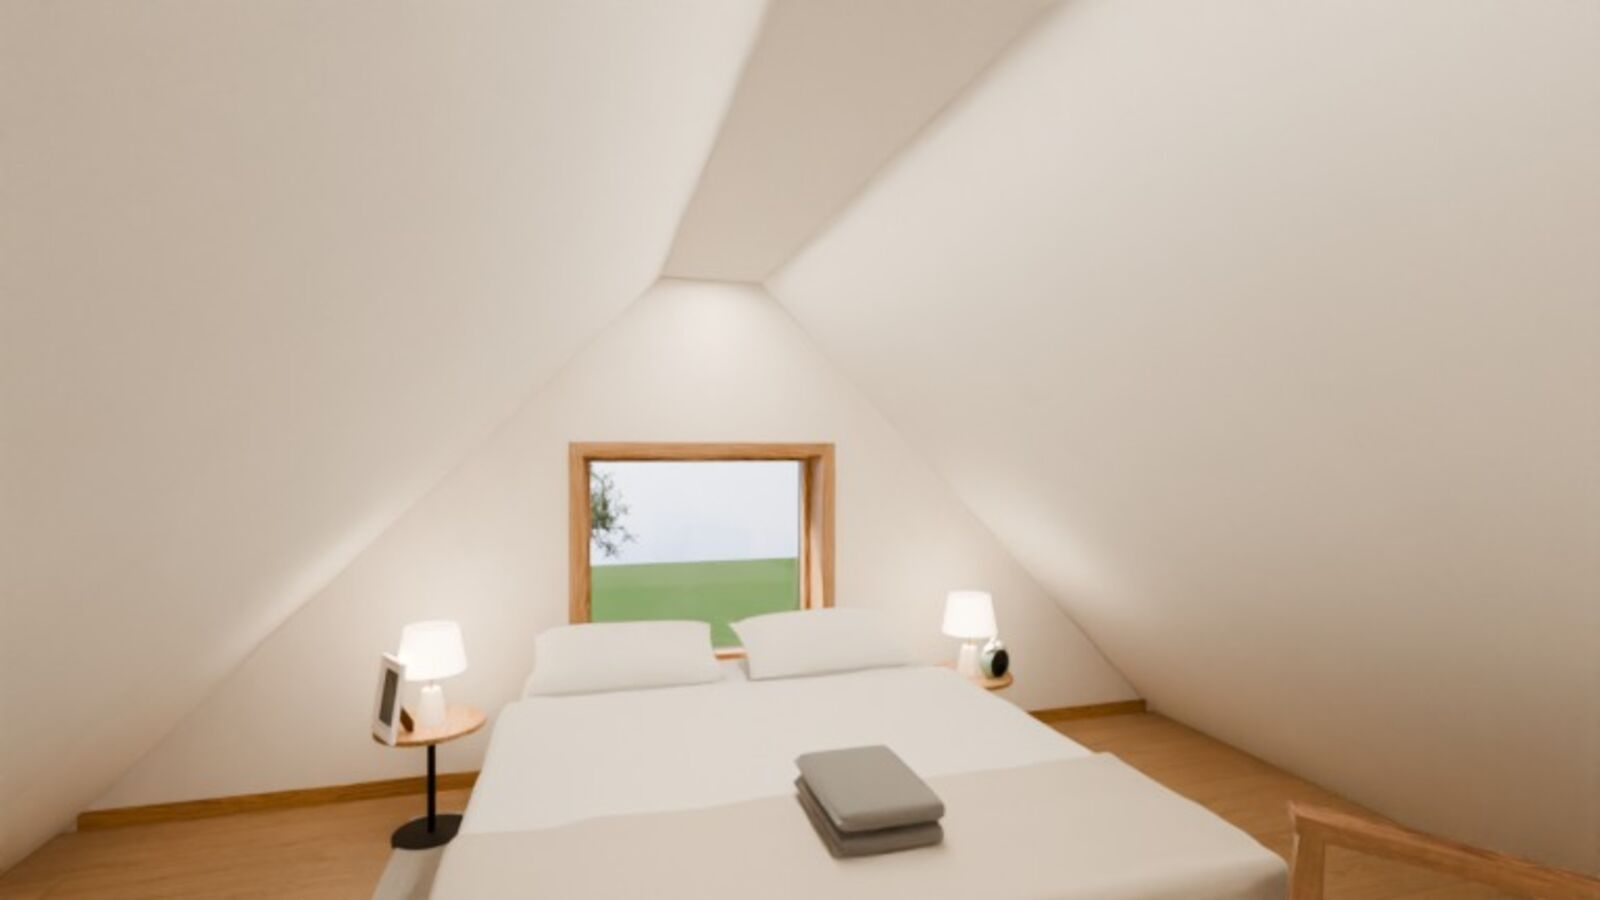
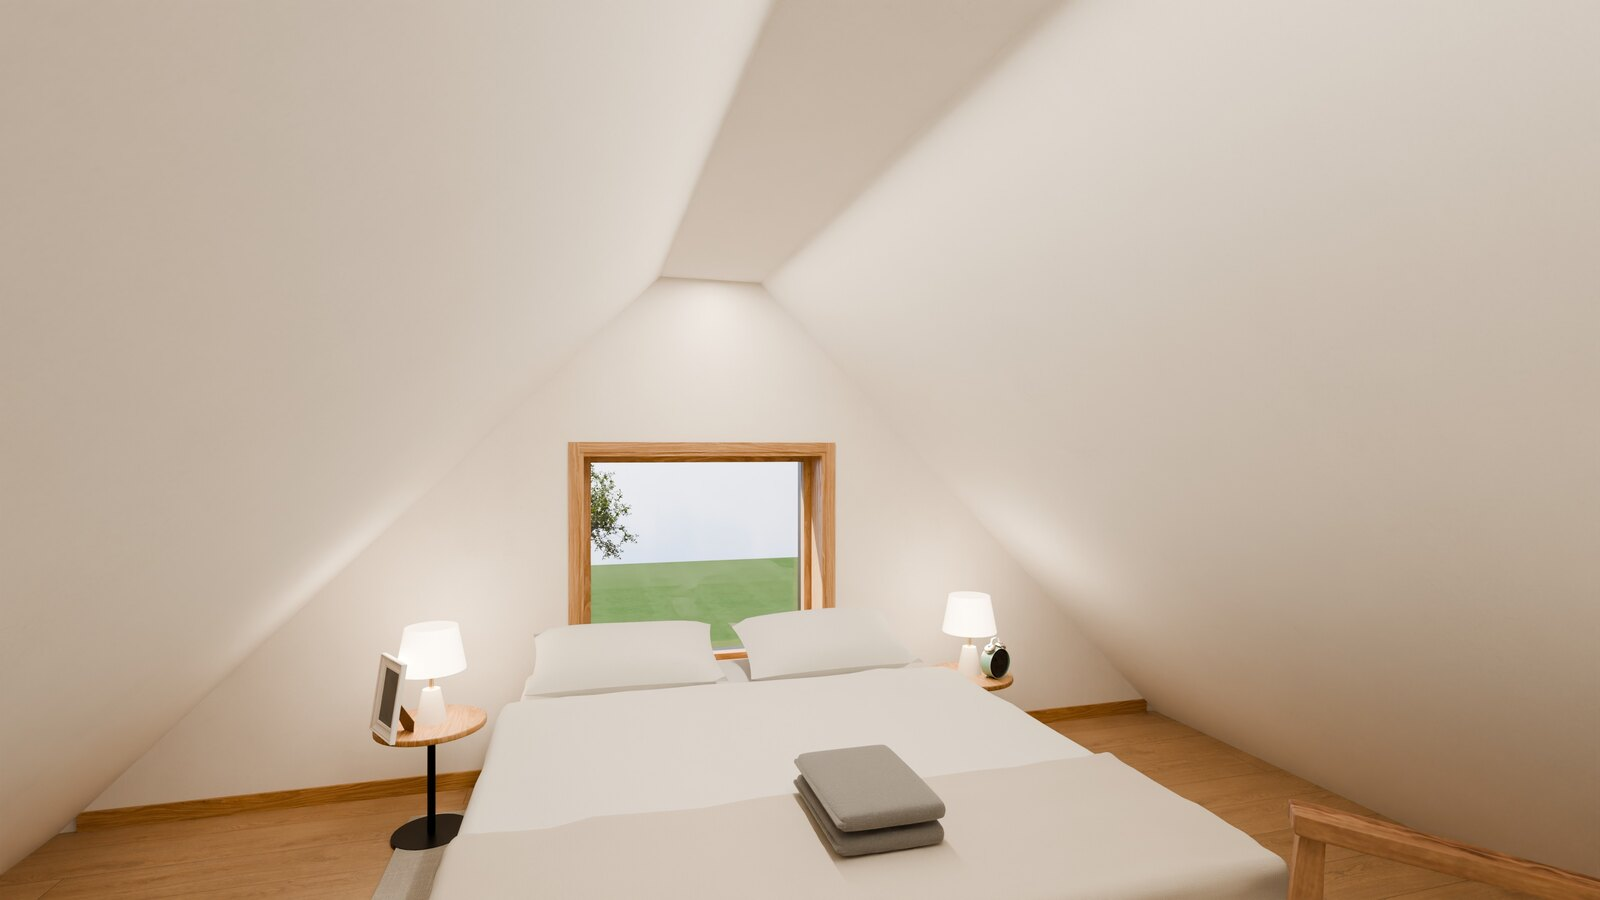
Boligannonse: 19 av 25 bilder i 4K

diff --git a/annonse/index.html b/annonse/index.html
@@ -103,7 +103,7 @@ img { max-width: 100%; }
 
 <div class="ark">
   <header class="topp">
-    <div class="merke"><strong>3D-visualisering av planlagt ombygging</strong><span>17 av 25 bilder er ferdige i 4K, resten er forhåndsvisninger</span></div>
+    <div class="merke"><strong>3D-visualisering av planlagt ombygging</strong><span>19 av 25 bilder er ferdige i 4K, resten er forhåndsvisninger</span></div>
     <h1>Enebolig med golfanneks og oppvarmet garasje</h1>
     <figure class="bilde hero"><button type="button" class="apne" data-i="0" aria-label="Åpne bildet: Fasaden mot nord med overbygd inngang"><img src="img/01-fasade.jpg" width="1600" height="900" alt="Fasaden mot nord med overbygd inngang"></button><figcaption>Fasaden mot nord med overbygd inngang</figcaption></figure>
     <p class="ingress">Et hus over tre plan med stue og kjøkken mot hagen, hovedsoverom med eget bad, tre barnerom og loft. I hagen står et anneks med golfsimulator. Trykk på et bilde for å se det i full oppløsning. På mobil fyller bildet hele skjermen når du snur den, og du blar ved å sveipe.</p>
@@ -114,8 +114,8 @@ img { max-width: 100%; }
 <section id="ute" class="del"><div class="delhode"><h2>Huset</h2><p>Brun stående kledning, sort ståltak og eik rundt alle åpninger. Overbygd inngang mot nord, dobbel garasje ved siden av.</p></div><div class="galleri"><figure class="bilde stor"><button type="button" class="apne" data-i="1" aria-label="Åpne bildet: Huset, garasjen og annekset sett fra nord"><img src="img/02-oversikt.jpg" width="1600" height="900" alt="Huset, garasjen og annekset sett fra nord" loading="lazy"></button><figcaption>Huset, garasjen og annekset sett fra nord</figcaption></figure></div></section>
 <section id="forste" class="del"><div class="delhode"><h2>Første etasje</h2><p>Stue, TV-stue, spisestue og kjøkken ligger på rekke mot hagen i sør. Tilbygget med kjøkken og spisestue ligger litt lavere enn stua og har 2,9 meter under taket.</p></div><div class="galleri"><figure class="bilde stor"><button type="button" class="apne" data-i="2" aria-label="Åpne bildet: Stua med karnapp mot hagen"><img src="img/04-stue.jpg" width="1600" height="900" alt="Stua med karnapp mot hagen" loading="lazy"></button><figcaption>Stua med karnapp mot hagen</figcaption></figure><figure class="bilde"><button type="button" class="apne" data-i="3" aria-label="Åpne bildet: Sofagruppa, med TV-stua bak glassveggen til venstre"><img src="img/05-stue-sofa.jpg" width="1600" height="900" alt="Sofagruppa, med TV-stua bak glassveggen til venstre" loading="lazy"></button><figcaption>Sofagruppa, med TV-stua bak glassveggen til venstre</figcaption></figure><figure class="bilde"><button type="button" class="apne" data-i="4" aria-label="Åpne bildet: Spisestue med rundt bord til åtte og skyvedører ut til terrassen"><img src="img/07-spisestue.jpg" width="1600" height="900" alt="Spisestue med rundt bord til åtte og skyvedører ut til terrassen" loading="lazy"></button><figcaption>Spisestue med rundt bord til åtte og skyvedører ut til terrassen</figcaption></figure><figure class="bilde"><button type="button" class="apne" data-i="5" aria-label="Åpne bildet: Kjøkken med mørk brune fronter og øy i Dekton"><img src="img/08-kjokken.jpg" width="1600" height="900" alt="Kjøkken med mørk brune fronter og øy i Dekton" loading="lazy"></button><figcaption>Kjøkken med mørk brune fronter og øy i Dekton</figcaption></figure><figure class="bilde"><button type="button" class="apne" data-i="6" aria-label="Åpne bildet: Kjøkkenøya har usynlig induksjon under steinplata"><img src="img/09-kjokken-oy.jpg" width="1600" height="900" alt="Kjøkkenøya har usynlig induksjon under steinplata" loading="lazy"></button><figcaption>Kjøkkenøya har usynlig induksjon under steinplata</figcaption></figure><figure class="bilde"><button type="button" class="apne" data-i="7" aria-label="Åpne bildet: TV-stua kan stenges av med glassfoldevegg"><img src="img/06-tvstue.jpg" width="1600" height="900" alt="TV-stua kan stenges av med glassfoldevegg" loading="lazy"></button><figcaption>TV-stua kan stenges av med glassfoldevegg</figcaption></figure><figure class="bilde"><button type="button" class="apne" data-i="8" aria-label="Åpne bildet: Entréen sett fra hoveddøra, med stua innerst"><img src="img/03-entre.jpg" width="1600" height="900" alt="Entréen sett fra hoveddøra, med stua innerst" loading="lazy"></button><figcaption>Entréen sett fra hoveddøra, med stua innerst</figcaption></figure></div></section>
 <section id="andre" class="del"><div class="delhode"><h2>Andre etasje</h2><p>Hovedsoverom med eget bad og walk-in, tre barnerom, barnebad, vaskerom og hjemmekontor.</p></div><div class="galleri"><figure class="bilde stor"><button type="button" class="apne" data-i="9" aria-label="Åpne bildet: Hovedsoverommet, med loftstrappa utenfor døra"><img src="img/10-hovedsoverom.jpg" width="1600" height="900" alt="Hovedsoverommet, med loftstrappa utenfor døra" loading="lazy"></button><figcaption>Hovedsoverommet, med loftstrappa utenfor døra</figcaption></figure><figure class="bilde"><button type="button" class="apne" data-i="10" aria-label="Åpne bildet: Bad til hovedsoverommet med dusj under skråtaket"><img src="img/11-masterbad.jpg" width="1600" height="900" alt="Bad til hovedsoverommet med dusj under skråtaket" loading="lazy"></button><figcaption>Bad til hovedsoverommet med dusj under skråtaket</figcaption></figure><figure class="bilde"><button type="button" class="apne" data-i="11" aria-label="Åpne bildet: Walk-in med plassbygd innredning i eik"><img src="img/12-walkin.jpg" width="1600" height="900" alt="Walk-in med plassbygd innredning i eik" loading="lazy"></button><figcaption>Walk-in med plassbygd innredning i eik</figcaption></figure><figure class="bilde"><button type="button" class="apne" data-i="12" aria-label="Åpne bildet: Barnerom med gulvhøyt vindu mot vest"><img src="img/13-barnerom2.jpg" width="1600" height="900" alt="Barnerom med gulvhøyt vindu mot vest" loading="lazy"></button><figcaption>Barnerom med gulvhøyt vindu mot vest</figcaption></figure><figure class="bilde"><button type="button" class="apne" data-i="13" aria-label="Åpne bildet: Barnerom med lenestol ved vinduet"><img src="img/14-barnerom3.jpg" width="1600" height="900" alt="Barnerom med lenestol ved vinduet" loading="lazy"></button><figcaption>Barnerom med lenestol ved vinduet</figcaption></figure><figure class="bilde"><button type="button" class="apne" data-i="14" aria-label="Åpne bildet: Barnerom med takvinduer mot sør"><img src="img/15-barnerom1.jpg" width="1600" height="900" alt="Barnerom med takvinduer mot sør" loading="lazy"></button><figcaption>Barnerom med takvinduer mot sør</figcaption></figure><figure class="bilde"><button type="button" class="apne" data-i="15" aria-label="Åpne bildet: Barnebad med dobbel servant og takvinduer"><img src="img/25-barnebad.jpg" width="1600" height="900" alt="Barnebad med dobbel servant og takvinduer" loading="lazy"><span class="lav">Lav kvalitet, 4K kommer</span></button><figcaption>Barnebad med dobbel servant og takvinduer</figcaption></figure><figure class="bilde"><button type="button" class="apne" data-i="16" aria-label="Åpne bildet: Hjemmekontor i nisjen ved trappa"><img src="img/16-kontor.jpg" width="1600" height="900" alt="Hjemmekontor i nisjen ved trappa" loading="lazy"></button><figcaption>Hjemmekontor i nisjen ved trappa</figcaption></figure></div></section>
-<section id="loft" class="del"><div class="delhode"><h2>Loftet</h2><p>Loftet har gjesterom i vest og et stort hobbyrom i øst, med tre takvinduer mot nord.</p></div><div class="galleri"><figure class="bilde stor"><button type="button" class="apne" data-i="17" aria-label="Åpne bildet: Hobbyrommet på loftet"><img src="img/17-loft.jpg" width="1600" height="900" alt="Hobbyrommet på loftet" loading="lazy"></button><figcaption>Hobbyrommet på loftet</figcaption></figure><figure class="bilde"><button type="button" class="apne" data-i="18" aria-label="Åpne bildet: Gjesterommet under mønet"><img src="img/18-loft-gjest.jpg" width="1600" height="900" alt="Gjesterommet under mønet" loading="lazy"><span class="lav">Lav kvalitet, 4K kommer</span></button><figcaption>Gjesterommet under mønet</figcaption></figure></div></section>
-<section id="hage" class="del"><div class="delhode"><h2>Terrasse og hage</h2><p>Terrassen ligger utenfor spisestua og fortsetter rundt hjørnet til kjøkkendøra. Hagen er skjermet av hekk.</p></div><div class="galleri"><figure class="bilde stor"><button type="button" class="apne" data-i="19" aria-label="Åpne bildet: Terrassen sett fra plenen"><img src="img/19-terrasse.jpg" width="1600" height="900" alt="Terrassen sett fra plenen" loading="lazy"><span class="lav">Lav kvalitet, 4K kommer</span></button><figcaption>Terrassen sett fra plenen</figcaption></figure><figure class="bilde"><button type="button" class="apne" data-i="20" aria-label="Åpne bildet: Sofagruppe på terrassen, annekset innerst i hagen"><img src="img/20-terrasse-ute.jpg" width="1600" height="900" alt="Sofagruppe på terrassen, annekset innerst i hagen" loading="lazy"><span class="lav">Lav kvalitet, 4K kommer</span></button><figcaption>Sofagruppe på terrassen, annekset innerst i hagen</figcaption></figure><figure class="bilde"><button type="button" class="apne" data-i="21" aria-label="Åpne bildet: Hellegang over plenen til annekset"><img src="img/21-hage-anneks.jpg" width="1600" height="900" alt="Hellegang over plenen til annekset" loading="lazy"><span class="lav">Lav kvalitet, 4K kommer</span></button><figcaption>Hellegang over plenen til annekset</figcaption></figure></div></section>
+<section id="loft" class="del"><div class="delhode"><h2>Loftet</h2><p>Loftet har gjesterom i vest og et stort hobbyrom i øst, med tre takvinduer mot nord.</p></div><div class="galleri"><figure class="bilde stor"><button type="button" class="apne" data-i="17" aria-label="Åpne bildet: Hobbyrommet på loftet"><img src="img/17-loft.jpg" width="1600" height="900" alt="Hobbyrommet på loftet" loading="lazy"></button><figcaption>Hobbyrommet på loftet</figcaption></figure><figure class="bilde"><button type="button" class="apne" data-i="18" aria-label="Åpne bildet: Gjesterommet under mønet"><img src="img/18-loft-gjest.jpg" width="1600" height="900" alt="Gjesterommet under mønet" loading="lazy"></button><figcaption>Gjesterommet under mønet</figcaption></figure></div></section>
+<section id="hage" class="del"><div class="delhode"><h2>Terrasse og hage</h2><p>Terrassen ligger utenfor spisestua og fortsetter rundt hjørnet til kjøkkendøra. Hagen er skjermet av hekk.</p></div><div class="galleri"><figure class="bilde stor"><button type="button" class="apne" data-i="19" aria-label="Åpne bildet: Terrassen sett fra plenen"><img src="img/19-terrasse.jpg" width="1600" height="900" alt="Terrassen sett fra plenen" loading="lazy"></button><figcaption>Terrassen sett fra plenen</figcaption></figure><figure class="bilde"><button type="button" class="apne" data-i="20" aria-label="Åpne bildet: Sofagruppe på terrassen, annekset innerst i hagen"><img src="img/20-terrasse-ute.jpg" width="1600" height="900" alt="Sofagruppe på terrassen, annekset innerst i hagen" loading="lazy"><span class="lav">Lav kvalitet, 4K kommer</span></button><figcaption>Sofagruppe på terrassen, annekset innerst i hagen</figcaption></figure><figure class="bilde"><button type="button" class="apne" data-i="21" aria-label="Åpne bildet: Hellegang over plenen til annekset"><img src="img/21-hage-anneks.jpg" width="1600" height="900" alt="Hellegang over plenen til annekset" loading="lazy"><span class="lav">Lav kvalitet, 4K kommer</span></button><figcaption>Hellegang over plenen til annekset</figcaption></figure></div></section>
 <section id="anneks" class="del"><div class="delhode"><h2>Anneks og garasje</h2><p>Annekset på 40 kvadratmeter har golfsimulator med lerret fra vegg til vegg og en liten lounge. Garasjen er dobbel og oppvarmet.</p></div><div class="galleri"><figure class="bilde stor"><button type="button" class="apne" data-i="22" aria-label="Åpne bildet: Golfsimulatoren i annekset"><img src="img/22-golf.jpg" width="1600" height="900" alt="Golfsimulatoren i annekset" loading="lazy"><span class="lav">Lav kvalitet, 4K kommer</span></button><figcaption>Golfsimulatoren i annekset</figcaption></figure><figure class="bilde"><button type="button" class="apne" data-i="23" aria-label="Åpne bildet: Loungen i annekset, under himling av eikespiler"><img src="img/23-golf-lounge.jpg" width="1600" height="900" alt="Loungen i annekset, under himling av eikespiler" loading="lazy"><span class="lav">Lav kvalitet, 4K kommer</span></button><figcaption>Loungen i annekset, under himling av eikespiler</figcaption></figure><figure class="bilde"><button type="button" class="apne" data-i="24" aria-label="Åpne bildet: Oppvarmet garasje med arbeidsbenk og skapvegg"><img src="img/24-garasje.jpg" width="1600" height="900" alt="Oppvarmet garasje med arbeidsbenk og skapvegg" loading="lazy"><span class="lav">Lav kvalitet, 4K kommer</span></button><figcaption>Oppvarmet garasje med arbeidsbenk og skapvegg</figcaption></figure></div></section>
 
   <section class="del" id="valg">
@@ -134,7 +134,7 @@ img { max-width: 100%; }
 
 <script>
 (function () {
-  var data = [["01-fasade","Fasaden mot nord med overbygd inngang",1],["02-oversikt","Huset, garasjen og annekset sett fra nord",1],["04-stue","Stua med karnapp mot hagen",1],["05-stue-sofa","Sofagruppa, med TV-stua bak glassveggen til venstre",1],["07-spisestue","Spisestue med rundt bord til åtte og skyvedører ut til terrassen",1],["08-kjokken","Kjøkken med mørk brune fronter og øy i Dekton",1],["09-kjokken-oy","Kjøkkenøya har usynlig induksjon under steinplata",1],["06-tvstue","TV-stua kan stenges av med glassfoldevegg",1],["03-entre","Entréen sett fra hoveddøra, med stua innerst",1],["10-hovedsoverom","Hovedsoverommet, med loftstrappa utenfor døra",1],["11-masterbad","Bad til hovedsoverommet med dusj under skråtaket",1],["12-walkin","Walk-in med plassbygd innredning i eik",1],["13-barnerom2","Barnerom med gulvhøyt vindu mot vest",1],["14-barnerom3","Barnerom med lenestol ved vinduet",1],["15-barnerom1","Barnerom med takvinduer mot sør",1],["25-barnebad","Barnebad med dobbel servant og takvinduer",0],["16-kontor","Hjemmekontor i nisjen ved trappa",1],["17-loft","Hobbyrommet på loftet",1],["18-loft-gjest","Gjesterommet under mønet",0],["19-terrasse","Terrassen sett fra plenen",0],["20-terrasse-ute","Sofagruppe på terrassen, annekset innerst i hagen",0],["21-hage-anneks","Hellegang over plenen til annekset",0],["22-golf","Golfsimulatoren i annekset",0],["23-golf-lounge","Loungen i annekset, under himling av eikespiler",0],["24-garasje","Oppvarmet garasje med arbeidsbenk og skapvegg",0]];
+  var data = [["01-fasade","Fasaden mot nord med overbygd inngang",1],["02-oversikt","Huset, garasjen og annekset sett fra nord",1],["04-stue","Stua med karnapp mot hagen",1],["05-stue-sofa","Sofagruppa, med TV-stua bak glassveggen til venstre",1],["07-spisestue","Spisestue med rundt bord til åtte og skyvedører ut til terrassen",1],["08-kjokken","Kjøkken med mørk brune fronter og øy i Dekton",1],["09-kjokken-oy","Kjøkkenøya har usynlig induksjon under steinplata",1],["06-tvstue","TV-stua kan stenges av med glassfoldevegg",1],["03-entre","Entréen sett fra hoveddøra, med stua innerst",1],["10-hovedsoverom","Hovedsoverommet, med loftstrappa utenfor døra",1],["11-masterbad","Bad til hovedsoverommet med dusj under skråtaket",1],["12-walkin","Walk-in med plassbygd innredning i eik",1],["13-barnerom2","Barnerom med gulvhøyt vindu mot vest",1],["14-barnerom3","Barnerom med lenestol ved vinduet",1],["15-barnerom1","Barnerom med takvinduer mot sør",1],["25-barnebad","Barnebad med dobbel servant og takvinduer",0],["16-kontor","Hjemmekontor i nisjen ved trappa",1],["17-loft","Hobbyrommet på loftet",1],["18-loft-gjest","Gjesterommet under mønet",1],["19-terrasse","Terrassen sett fra plenen",1],["20-terrasse-ute","Sofagruppe på terrassen, annekset innerst i hagen",0],["21-hage-anneks","Hellegang over plenen til annekset",0],["22-golf","Golfsimulatoren i annekset",0],["23-golf-lounge","Loungen i annekset, under himling av eikespiler",0],["24-garasje","Oppvarmet garasje med arbeidsbenk og skapvegg",0]];
   var lys = document.getElementById("lys"), rom = document.getElementById("lys-rom"), bilde = document.getElementById("lys-bilde");
   var tekst = document.getElementById("lys-tekst"), teller = document.getElementById("lys-teller"), zoom = document.getElementById("lys-zoom");
   var i = 0, sist = null;
